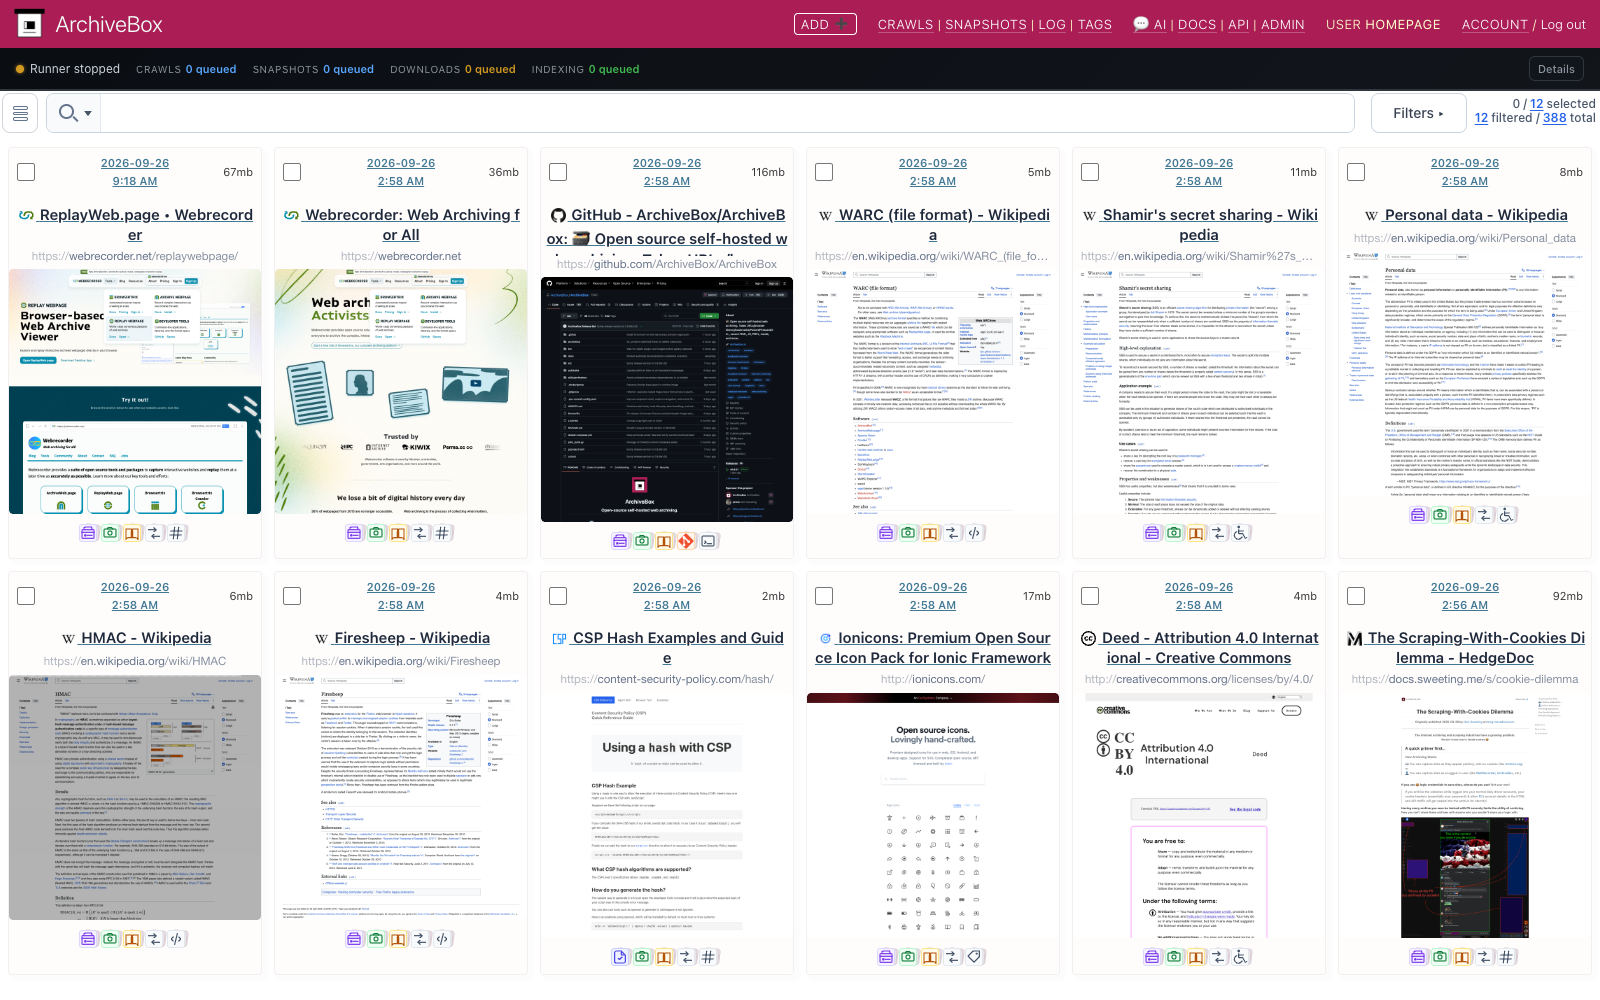
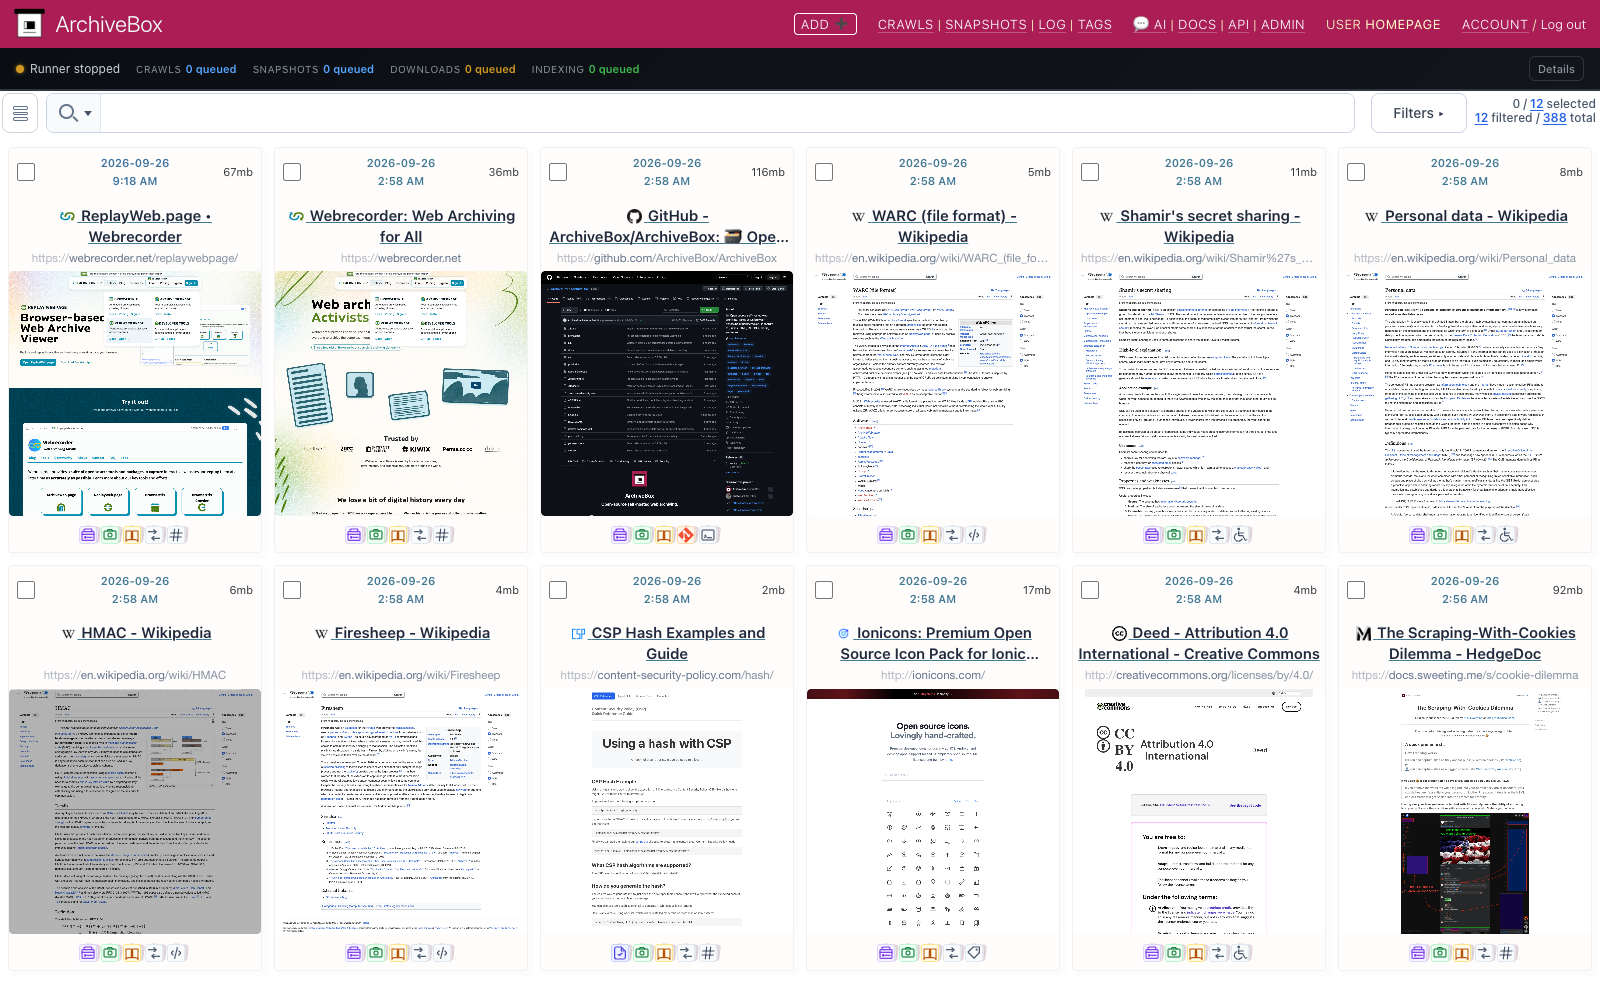
Align snapshot grid thumbnails and wrap titles at word boundaries

diff --git a/archivebox/templates/admin/snapshots_grid.html b/archivebox/templates/admin/snapshots_grid.html
@@ -117,23 +117,22 @@
   .cards .card .card-title {
       padding: 4px 5px 1px;
       background-color: #fffcfc;
-      /*height: 50px;
-      vertical-align: middle;
-      line-height: 50px;*/
   }
   .cards .card .card-title h4 {
       color: #1e293b;
-      display: block;
-      vertical-align: middle;
-      line-height: normal;
-      margin: 0px;
-      padding: 5px 0px;
+      display: -webkit-box;
+      -webkit-box-orient: vertical;
+      -webkit-line-clamp: 2;
+      line-height: 20px;
+      height: 40px;
+      margin: 5px 0;
+      padding: 0;
       font-size: 15px;
       font-weight: 600;
-      word-break: break-all;
+      word-break: normal;
+      overflow-wrap: normal;
       overflow: hidden;
       text-overflow: ellipsis;
-      max-height: 46px;
   }
   .cards .card .card-title h4 .title-text {
     user-select: all;
@@ -176,11 +175,15 @@
   .cards .card .card-meta .action-select {
       justify-self: start;
   }
-  .cards .card .card-meta .card-date {
+  #content .cards .card .card-meta .card-date {
       display: block;
       justify-self: center;
       max-width: 100%;
       text-align: center;
+      text-decoration: none;
+  }
+  #content .cards .card .card-meta .card-date:hover {
+      text-decoration: underline;
   }
   .cards .card .card-meta .card-size {
       justify-self: end;
